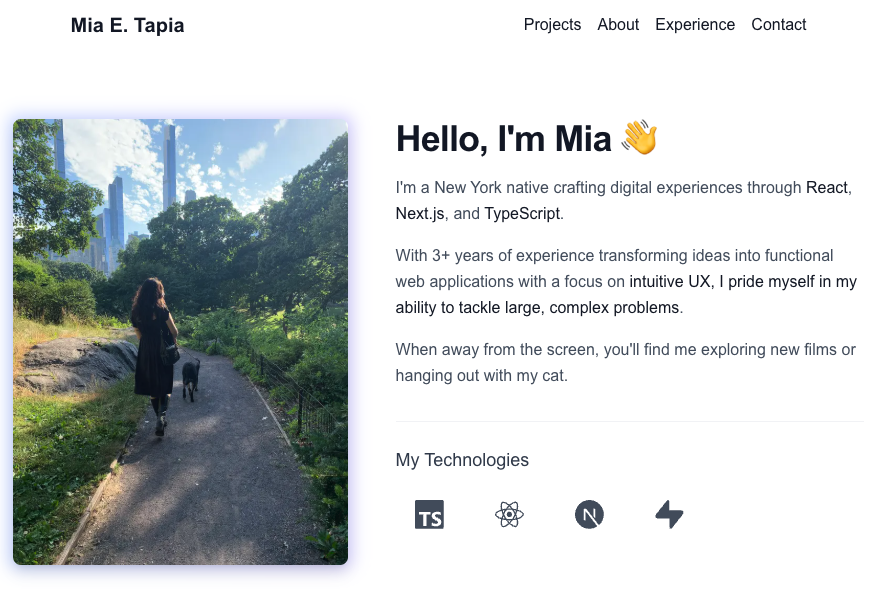
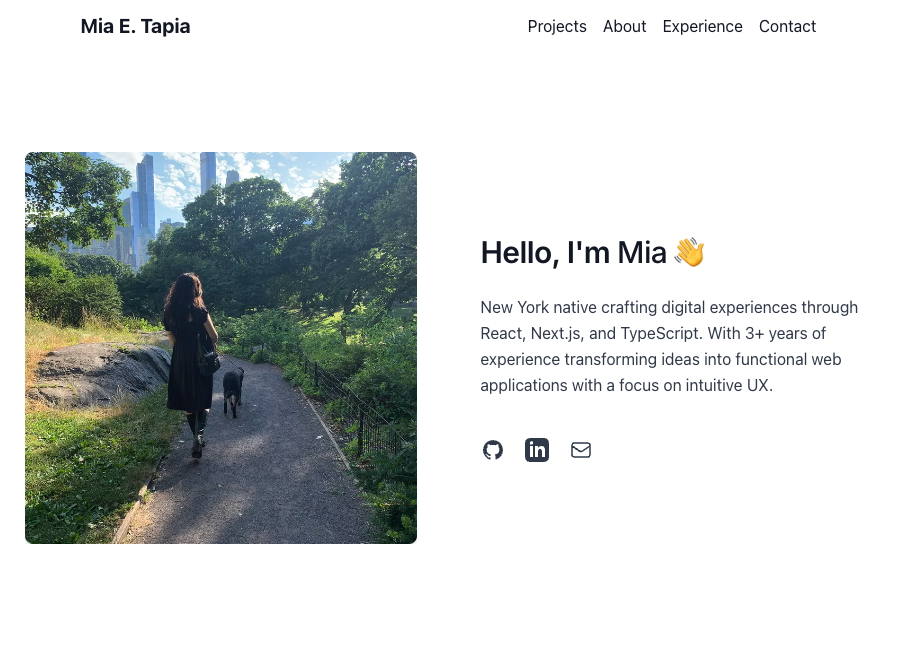
Milestone/Completed first version implementation

diff --git a/my-portfolio/src/components/TechnologyShowcase.tsx b/my-portfolio/src/components/TechnologyShowcase.tsx
@@ -51,14 +51,12 @@ export default function TechnologyShowcase() {
 
   return (
     <div className="space-y-8">
-      {/* Color scheme toggle */}
       <div className="flex justify-center mb-8">
         <div className="bg-white p-2 rounded-lg shadow-sm border border-gray-100">
           <ColorSchemeToggle currentScheme={colorScheme} onChange={setColorScheme} />
         </div>
       </div>
 
-      {/* Categories grid */}
       <div className="grid grid-cols-1 md:grid-cols-3 gap-6">
         {Object.entries(techCategories).map(([categoryKey, technologies]) => {
           const category = categories[categoryKey as keyof typeof categories]
@@ -74,10 +72,8 @@ export default function TechnologyShowcase() {
                 className={`absolute inset-0 bg-gradient-to-br ${category.gradient} opacity-70 group-hover:opacity-100 transition-opacity duration-300`}
               ></div>
 
-              {/* Card content */}
               <div className="relative z-10 p-6 h-full flex flex-col">
                 <div className="flex items-start gap-4 mb-5">
-                  {/* Icon with gradient background */}
                   <div
                     className={`flex-shrink-0 p-3 rounded-lg bg-white shadow-sm border border-gray-100 ${category.borderHover} transition-colors duration-300`}
                   >
@@ -86,14 +82,12 @@ export default function TechnologyShowcase() {
                     {categoryKey === "infra" && <CategoryIcon className="w-5 h-5 text-amber-600" />}
                   </div>
 
-                  {/* Category title and description */}
                   <div>
                     <h2 className="text-lg font-bold text-gray-900">{category.title}</h2>
                     <p className="text-sm text-gray-600 mt-1">{category.description}</p>
                   </div>
                 </div>
 
-                {/* Technologies */}
                 <div className="flex flex-wrap gap-2 mt-auto pt-4 border-t border-gray-200 border-opacity-50">
                     {technologies.map((tech: Technology) => (
                     <TechBadge

diff --git a/my-portfolio/src/app/page.tsx b/my-portfolio/src/app/page.tsx
@@ -13,7 +13,6 @@ import { ArrowDown, FileText, Linkedin } from "lucide-react"
 export default function Home() {
   return (
     <main className="min-h-screen bg-white">
-      {/* Hero Section */}
       <section className="relative min-h-[90vh] flex flex-col justify-center items-center px-4 overflow-hidden">
         <div className=""></div>
         <div className="container mx-auto relative z-10 flex flex-col items-center">
@@ -72,7 +71,6 @@ export default function Home() {
         </div>
       </section>
 
-      {/* Projects Section */}
       <section id="projects" className="py-20 px-4 bg-gray-50">
         <div className="container mx-auto">
           <h2 className="text-3xl font-bold mb-2 text-center">Projects</h2>
@@ -95,7 +93,6 @@ export default function Home() {
         </div>
       </section>
 
-      {/* Experience Section */}
       <section id="experience" className="py-20 px-4">
         <div className="container mx-auto">
           <h2 className="text-3xl font-bold mb-2 text-center">Experience</h2>
@@ -119,7 +116,6 @@ export default function Home() {
         </div>
       </section>
 
-      {/* Technology Section */}
       <section id="technology" className="py-20 px-4 bg-gray-50">
         <div className="container mx-auto">
           <h2 className="text-3xl font-bold mb-2 text-center">Technologies</h2>
@@ -131,7 +127,6 @@ export default function Home() {
         </div>
       </section>
 
-      {/* Contact Section */}
       <section id="contact" className="py-20 px-4">
         <div className="container mx-auto">
           <h2 className="text-3xl font-bold mb-2 text-center">Contact Me</h2>

diff --git a/my-portfolio/src/app/about/page.tsx b/my-portfolio/src/app/about/page.tsx
@@ -26,7 +26,7 @@ export default function AboutPage() {
           
           <div className="w-full md:w-1/2 space-y-6">
             <h1 className="text-3xl font-light tracking-wide">
-              Hello, I'm <span className="font-medium">Mia</span>
+              Hello, I'm <span className="font-medium">Mia</span> 👋
             </h1>
             
             <p className="text-gray-700 leading-relaxed">
@@ -137,15 +137,19 @@ export default function AboutPage() {
             <ul className="space-y-4 text-gray-700">
               <li className="flex items-baseline gap-3">
                 <span className="w-1 h-1 rounded-full bg-gray-400"></span>
-                <span>Exploring coffee shops around the city</span>
+                <span>Data visualization and analysis</span>
               </li>
               <li className="flex items-baseline gap-3">
                 <span className="w-1 h-1 rounded-full bg-gray-400"></span>
-                <span>Watching a good film</span>
+                <span>AI/ML LLM integration</span>
               </li>
               <li className="flex items-baseline gap-3">
                 <span className="w-1 h-1 rounded-full bg-gray-400"></span>
-                <span>Hanging out with my cat</span>
+                <span>Design and UX/UI principles</span>
+              </li>
+              <li className="flex items-baseline gap-3">
+                <span className="w-1 h-1 rounded-full bg-gray-400"></span>
+                <span>Reading about the latest in tech 🤓</span>
               </li>
             </ul>
           </div>

diff --git a/my-portfolio/src/components/Navbar.tsx b/my-portfolio/src/components/Navbar.tsx
@@ -9,8 +9,10 @@ export default function Navbar() {
     return (
         <nav className="bg-white">
             <div className="container mx-auto px-4 py-4 flex justify-between items-center">
-                <div className="text-xl font-bold text-gray-900">
-                    <Link href="/">Mia E. Tapia</Link>
+                <div className="flex items-center space-x-2">
+                    <Link href="/" className="text-xl font-bold text-gray-900">
+                        Mia E. Tapia
+                    </Link>
                 </div>
 
                 <ul className="hidden md:flex space-x-4">
@@ -29,7 +31,7 @@ export default function Navbar() {
             </div>
             {isOpen && (
                 <div className="md:hidden px-4 py-2">
-                    <ul className="flext flex-col space-y-2">
+                    <ul className="flex flex-col space-y-2">
                         <MobileNavLink href="#projects" onClick={() => setIsOpen(false)}>Projects</MobileNavLink>
                         <MobileNavLink href="/about" onClick={() => setIsOpen(false)}>About</MobileNavLink>
                         <MobileNavLink href="#experience" onClick={() => setIsOpen(false)}>Experience</MobileNavLink>
@@ -53,7 +55,6 @@ function NavLink({ href, children }: { href: string; children: React.ReactNode }
         </li>
     );
 }
-
 
 function MobileNavLink({ href, children, onClick }: { href: string; children: React.ReactNode; onClick: () => void }) {
     return (

diff --git a/my-portfolio/src/config/profile.ts b/my-portfolio/src/config/profile.ts
@@ -9,7 +9,7 @@ export const profile: Profile = {
     links: {
         github: "https://github.com/miasdk",
         linkedIn: "https://www.linkedin.com/in/miaelena/",
-        resume: "https://drive.google.com/file/d/1gk0v2x4q3e5f8z7g9h8g8g8g8g/view?usp=sharing",
+        resume: "https://docs.google.com/document/d/18HHgbBzyzwlzygUA7-VSyhm6DMrSOccT3SqBcPc2CGk/edit?usp=sharing",
     },
     skills: [
         "typescript",

diff --git a/my-portfolio/src/types/index.tsx b/my-portfolio/src/types/index.tsx
@@ -71,6 +71,7 @@ export type Technology =
   import { StaticImageData } from "next/image";
   
   export interface Profile {
+    email: string;
       name: string;
       title: string;
       description: string;
